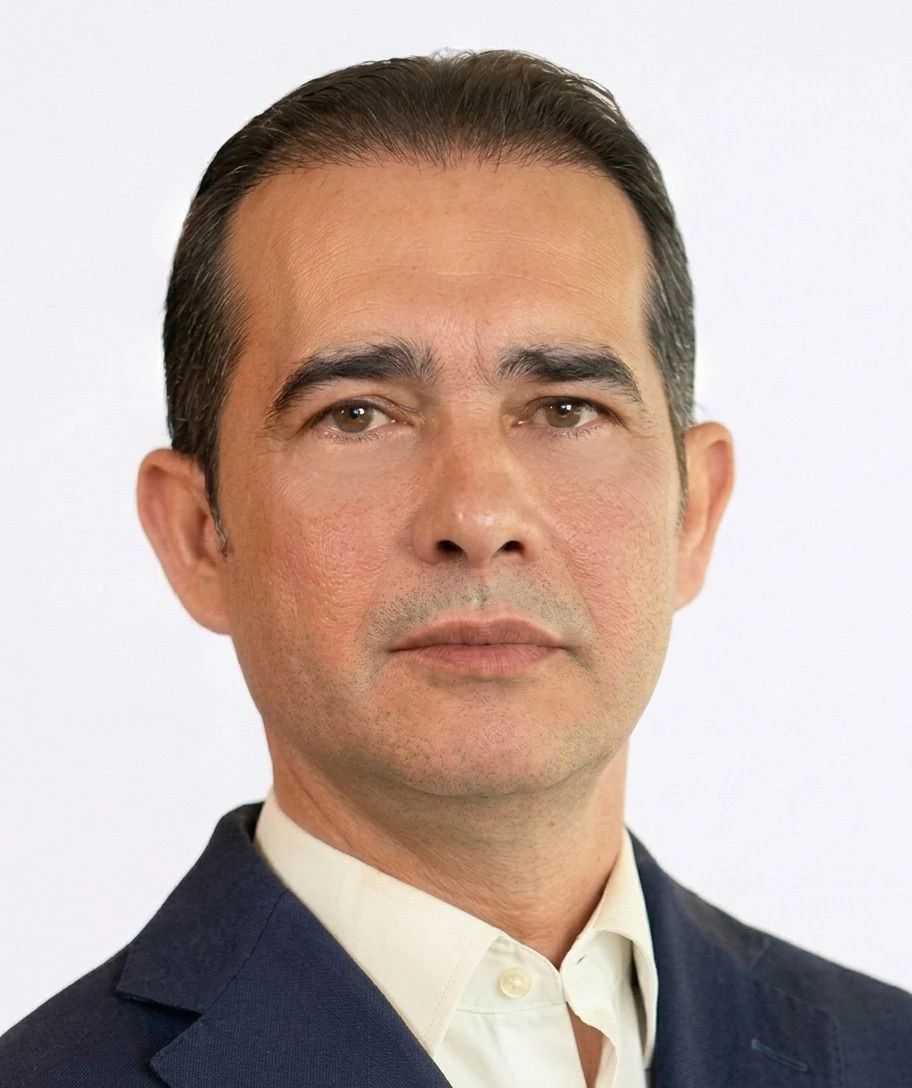
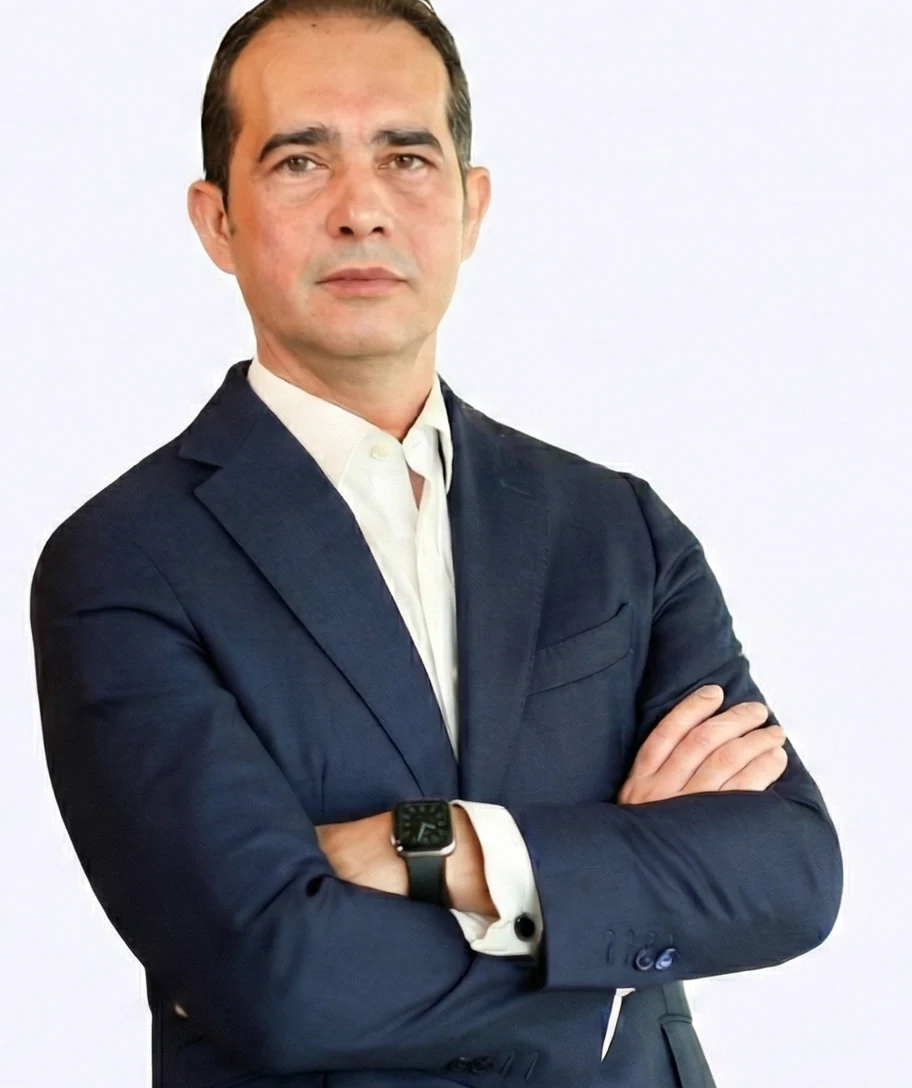
Refresh schema portraits from 6MB source, expand titles, add Writer + Cloudflare Analytics
- Regenerate jose-luis-leal-board-advisor-investor.webp and jose-luis-leal-investor.webp from the 6MB PNG with the LinkedIn-matching #F8F8FF background, so Google can reconcile the Person entity against the already-indexed LinkedIn image.
- Expand page titles and og/twitter titles with the EY role per language, LinkedIn-style pipe separator: "Former EY Global Equity Partner" (EN), "Ex-Socio Global de EY" (ES), "Ancien Associé Global EY" (FR).
- Add "Writer" between Investor and Speaker in the footer tagline across all three languages.
- Wire Cloudflare Web Analytics on the three index.html files.

diff --git a/fr/index.html b/fr/index.html
@@ -5,7 +5,7 @@
     <meta name="viewport" content="width=device-width, initial-scale=1.0">
     <link rel="icon" href="/favicon.ico" type="image/x-icon">
 
-    <title>Jose Luis Leal — Board Advisor · Investor</title>
+    <title>Jose Luis Leal | Board Advisor | Investor | Ancien Associé Global EY</title>
     <meta name="description" content="Board Advisor &amp; Investor. Ancien Associé Global EY. Auteur de Ungoverned: The Sovereignty Shift. Chroniqueur de El Faro dans Es Diari de Menorca. Résident en Andorre.">
     <meta name="author" content="Jose Luis Leal">
     <meta name="robots" content="index, follow, max-snippet:-1, max-image-preview:large, max-video-preview:-1">
@@ -19,7 +19,7 @@
 
     <!-- Open Graph -->
     <meta property="og:site_name" content="Jose Luis Leal">
-    <meta property="og:title" content="Jose Luis Leal — Board Advisor · Investor">
+    <meta property="og:title" content="Jose Luis Leal | Board Advisor | Investor | Ancien Associé Global EY">
     <meta property="og:description" content="J'accompagne les conseils d'administration et les investisseurs sur ce qui vient. Ancien Associé Global EY. Auteur de Ungoverned: The Sovereignty Shift. Résident en Andorre.">
     <meta property="og:type" content="profile">
     <meta property="og:url" content="https://leal.info/fr/">
@@ -35,7 +35,7 @@
 
     <!-- Twitter Card -->
     <meta name="twitter:card" content="summary_large_image">
-    <meta name="twitter:title" content="Jose Luis Leal — Board Advisor · Investor">
+    <meta name="twitter:title" content="Jose Luis Leal | Board Advisor | Investor | Ancien Associé Global EY">
     <meta name="twitter:description" content="J'accompagne les conseils d'administration et les investisseurs sur ce qui vient. Ancien Associé Global EY. Résident en Andorre.">
     <meta name="twitter:image" content="https://leal.info/assets/images/og-image.jpg">
     <meta name="twitter:image:alt" content="Jose Luis Leal — Board Advisor &amp; Investor">
@@ -110,6 +110,10 @@
 
     <!-- Styles -->
     <link rel="stylesheet" href="/assets/styles.css">
+
+    <!-- Cloudflare Web Analytics -->
+    <script defer src="https://static.cloudflareinsights.com/beacon.min.js" data-cf-beacon='{"token": "393b05ad8e18427f8dd7666361b34778"}'></script>
+    <!-- End Cloudflare Web Analytics -->
 </head>
 <body>
     <a href="#main" class="skip-link">Aller au contenu</a>
@@ -227,7 +231,7 @@
 
         <footer class="site-footer">
             <div class="footer-brand">Jose Luis Leal</div>
-            <p class="footer-tagline">Board Advisor · Investor · Speaker</p>
+            <p class="footer-tagline">Board Advisor · Investor · Writer · Speaker</p>
             <div class="footer-bottom">Andorre · © 2026 · <a href="/" hreflang="en">EN</a> · <a href="/es/" hreflang="es">ES</a> · <a href="/fr/" aria-current="page" hreflang="fr">FR</a></div>
         </footer>
     </main>

diff --git a/index.html b/index.html
@@ -5,7 +5,7 @@
     <meta name="viewport" content="width=device-width, initial-scale=1.0">
     <link rel="icon" href="/favicon.ico" type="image/x-icon">
 
-    <title>Jose Luis Leal — Board Advisor · Investor</title>
+    <title>Jose Luis Leal | Board Advisor | Investor | Former EY Global Equity Partner</title>
     <meta name="description" content="Board Advisor & Investor. Former EY Global Equity Partner. Author of Ungoverned: The Sovereignty Shift. Writing El Faro. Based in Andorra.">
     <meta name="author" content="Jose Luis Leal">
     <meta name="robots" content="index, follow, max-snippet:-1, max-image-preview:large, max-video-preview:-1">
@@ -19,7 +19,7 @@
 
     <!-- Open Graph -->
     <meta property="og:site_name" content="Jose Luis Leal">
-    <meta property="og:title" content="Jose Luis Leal — Board Advisor · Investor">
+    <meta property="og:title" content="Jose Luis Leal | Board Advisor | Investor | Former EY Global Equity Partner">
     <meta property="og:description" content="Working with boards and investors on what comes next. Former EY Global Equity Partner. Author of Ungoverned: The Sovereignty Shift. Based in Andorra.">
     <meta property="og:type" content="profile">
     <meta property="og:url" content="https://leal.info/">
@@ -35,7 +35,7 @@
 
     <!-- Twitter Card -->
     <meta name="twitter:card" content="summary_large_image">
-    <meta name="twitter:title" content="Jose Luis Leal — Board Advisor · Investor">
+    <meta name="twitter:title" content="Jose Luis Leal | Board Advisor | Investor | Former EY Global Equity Partner">
     <meta name="twitter:description" content="Working with boards and investors on what comes next. Former EY Global Equity Partner. Based in Andorra.">
     <meta name="twitter:image" content="https://leal.info/assets/images/og-image.jpg">
     <meta name="twitter:image:alt" content="Jose Luis Leal — Board Advisor & Investor">
@@ -110,6 +110,10 @@
 
     <!-- Styles (includes self-hosted fonts) -->
     <link rel="stylesheet" href="/assets/styles.css">
+
+    <!-- Cloudflare Web Analytics -->
+    <script defer src="https://static.cloudflareinsights.com/beacon.min.js" data-cf-beacon='{"token": "393b05ad8e18427f8dd7666361b34778"}'></script>
+    <!-- End Cloudflare Web Analytics -->
 </head>
 <body>
     <a href="#main" class="skip-link">Skip to content</a>
@@ -227,7 +231,7 @@
 
         <footer class="site-footer">
             <div class="footer-brand">Jose Luis Leal</div>
-            <p class="footer-tagline">Board Advisor · Investor · Speaker</p>
+            <p class="footer-tagline">Board Advisor · Investor · Writer · Speaker</p>
             <div class="footer-bottom">Andorra · © 2026 · <a href="/" aria-current="page" hreflang="en">EN</a> · <a href="/es/" hreflang="es">ES</a> · <a href="/fr/" hreflang="fr">FR</a></div>
         </footer>
     </main>

diff --git a/es/index.html b/es/index.html
@@ -5,7 +5,7 @@
     <meta name="viewport" content="width=device-width, initial-scale=1.0">
     <link rel="icon" href="/favicon.ico" type="image/x-icon">
 
-    <title>Jose Luis Leal — Board Advisor · Investor</title>
+    <title>Jose Luis Leal | Board Advisor | Investor | Ex-Socio Global de EY</title>
     <meta name="description" content="Board Advisor &amp; Investor. Ex-Socio Global de EY. Autor de Ungoverned: The Sovereignty Shift. Columnista de El Faro en Es Diari de Menorca. Residente en Andorra.">
     <meta name="author" content="Jose Luis Leal">
     <meta name="robots" content="index, follow, max-snippet:-1, max-image-preview:large, max-video-preview:-1">
@@ -19,7 +19,7 @@
 
     <!-- Open Graph -->
     <meta property="og:site_name" content="Jose Luis Leal">
-    <meta property="og:title" content="Jose Luis Leal — Board Advisor · Investor">
+    <meta property="og:title" content="Jose Luis Leal | Board Advisor | Investor | Ex-Socio Global de EY">
     <meta property="og:description" content="Acompaño a consejos e inversores en lo que viene. Ex-Socio Global de EY. Autor de Ungoverned: The Sovereignty Shift. Residente en Andorra.">
     <meta property="og:type" content="profile">
     <meta property="og:url" content="https://leal.info/es/">
@@ -35,7 +35,7 @@
 
     <!-- Twitter Card -->
     <meta name="twitter:card" content="summary_large_image">
-    <meta name="twitter:title" content="Jose Luis Leal — Board Advisor · Investor">
+    <meta name="twitter:title" content="Jose Luis Leal | Board Advisor | Investor | Ex-Socio Global de EY">
     <meta name="twitter:description" content="Acompaño a consejos e inversores en lo que viene. Ex-Socio Global de EY. Residente en Andorra.">
     <meta name="twitter:image" content="https://leal.info/assets/images/og-image.jpg">
     <meta name="twitter:image:alt" content="Jose Luis Leal — Board Advisor &amp; Investor">
@@ -110,6 +110,10 @@
 
     <!-- Styles -->
     <link rel="stylesheet" href="/assets/styles.css">
+
+    <!-- Cloudflare Web Analytics -->
+    <script defer src="https://static.cloudflareinsights.com/beacon.min.js" data-cf-beacon='{"token": "393b05ad8e18427f8dd7666361b34778"}'></script>
+    <!-- End Cloudflare Web Analytics -->
 </head>
 <body>
     <a href="#main" class="skip-link">Saltar al contenido</a>
@@ -227,7 +231,7 @@
 
         <footer class="site-footer">
             <div class="footer-brand">Jose Luis Leal</div>
-            <p class="footer-tagline">Board Advisor · Investor · Speaker</p>
+            <p class="footer-tagline">Board Advisor · Investor · Writer · Speaker</p>
             <div class="footer-bottom">Andorra · © 2026 · <a href="/" hreflang="en">EN</a> · <a href="/es/" aria-current="page" hreflang="es">ES</a> · <a href="/fr/" hreflang="fr">FR</a></div>
         </footer>
     </main>
